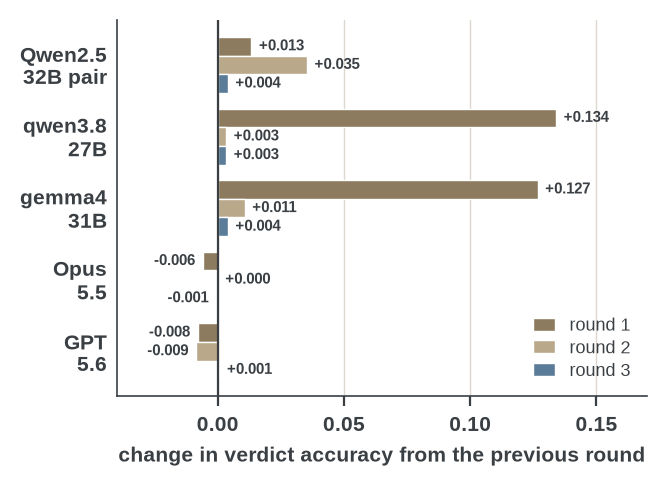
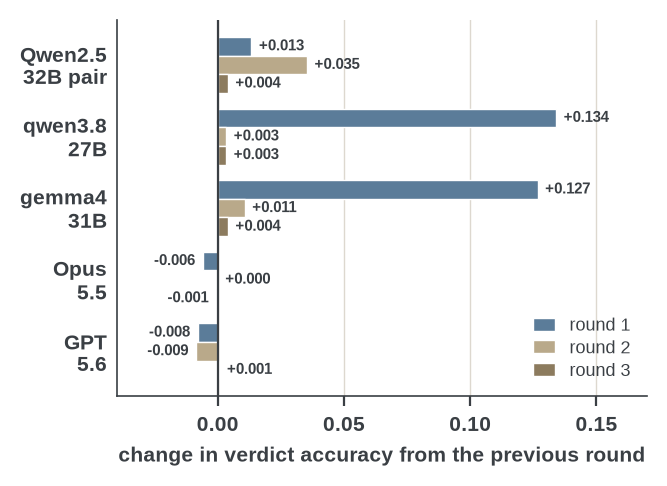
RQ2 covers every model (frontier: no verdict headroom, auditable trail); paraphrase case study justified; repair round 1 in blue; register labels horizontal and smaller

diff --git a/docs/draft/body.tex b/docs/draft/body.tex
@@ -572,9 +572,9 @@ the same five models in every model slot.
 \item \textbf{RQ1.} How well do current language models verify these claims
 end to end, and how much does giving them the corpus codebook change the
 result?
-\item \textbf{RQ2.} Does our staged pipeline improve open models over
-Straight-to-SQL verification, and which stage and which claim families account
-for the errors that remain?
+\item \textbf{RQ2.} What does the staged pipeline add over Straight-to-SQL
+verification for each model, and which stage and which claim families
+account for the errors that remain?
 \item \textbf{RQ3.} Do correct verdicts rest on correct evidence, and how
 often do systems decide claims the data cannot decide, or abstain on claims
 it can?
@@ -748,15 +748,22 @@ $n = k$ statements and the pipeline abstains rather than guess.
 \subsection{RQ2: the staged pipeline and where errors remain}
 \label{sec:families}
 
-\paragraph{For open models the contract is what makes the verdict stand on the
-right evidence.} With the contract and the verifier, every open model gains
-between 0.12 and 0.24 in verdict accuracy over the Straight-to-SQL control,
-and gemma4-31B lands within 0.02 of the frontier at zero API cost. The
-evidence margin is larger and does not shrink with model quality: under the
-contract 86--97\% of right verdicts rest on the exact denominator, against
-40--86\% end to end, and overclaim falls by a factor of four or more. The
-contract does not make the models better at SQL; it removes the
-interpretation step on which they were failing.
+\paragraph{What the contract adds depends on how much the model left on the
+table.} The frontier models have no verdict headroom with the codebook: they
+score the same under \art{} as end to end, and the verifier costs them a
+little, because its checks flag a few correct $n = k$ statements and the
+pipeline abstains rather than guess. What the pipeline gives them is not
+accuracy but an auditable trail: a plan whose fields are scored, a report set
+per arm, and a test the harness ran, which the one-prompt query does not
+produce even when it is right. For the open models the contract is what
+makes the verdict stand on the right evidence: with the contract and the
+verifier every open model gains between 0.12 and 0.24 in verdict accuracy
+over the Straight-to-SQL control, and gemma4-31B lands within 0.02 of the
+frontier at zero API cost. The evidence margin is larger and does not shrink
+with model quality: under the contract 86--97\% of right verdicts rest on the
+exact denominator, against 40--86\% end to end, and overclaim falls by a
+factor of four or more. The contract does not make the models better at SQL;
+it removes the interpretation step on which they were failing.
 
 \iffalse  % family table kept in source; Figure~\ref{fig:groups} (ours by group) and Figure~\ref{fig:families} (evidence vs B) carry it (user 2026-10-20)
 \begin{table*}[t]
@@ -1014,7 +1021,10 @@ single-report claims.}
 
 \paragraph{Paraphrase.} Every test claim also exists in three paraphrase
 registers (research, media, clinical), and the case study reruns the three
-open models on all of them (Figure~\ref{fig:registers}). The research
+open models on all of them (Figure~\ref{fig:registers}); the open models are
+the ones with headroom to lose, and the frontier models, at 0.98--1.00 on the
+original wording, would show little, so they are left to future work with
+free paraphrase. The research
 register costs the most, 0.05 to 0.13 of accuracy, the media and clinical
 registers less (at most 0.07). Rerunning the planner alone on the same
 registers (not shown) loses almost exactly what the full pipeline loses for
@@ -1022,8 +1032,7 @@ the 2026 models, so the cost of paraphrase is paid at planning and passes
 through the contract unchanged; the 2024 pair's pipeline loses less than its
 planner, because its retrieval stage rather than its plan is the bottleneck. gemma4 stays ahead in every register, while
 qwen3.8 and the pair swap places on the research register, where qwen3.8's
-planner loses most. The registers are templated; free paraphrase and the
-frontier models are left to future work.
+planner loses most. The registers are templated.
 
 \iffalse  % registers table kept in source; Figure~\ref{fig:registers} carries it (user 2026-10-20)
 \begin{table}[t]

diff --git a/scripts/paper_figures.py b/scripts/paper_figures.py
@@ -99,7 +99,7 @@ def fig_rounds():
     appendix)."""
     suffix = {0: "dprime", 1: "dprime_verify1", 2: "dprime_verify2", 3: "dprime_verify3"}
     short = {"q25pair": "Qwen2.5\n32B pair", "qwen38_27b": "qwen3.8\n27B", "gemma4_31b": "gemma4\n31B", "opus": "Opus\n5.5", "gpt": "GPT\n5.6"}
-    cols = [DRIFT, DUNE, SLATE]  # coast set: drift, dune, slate
+    cols = [SLATE, DUNE, DRIFT]  # coast set: round 1 slate blue, then dune, drift (user 2026-10-21)
     for name, getter, title in (("rounds", acc, "verdict accuracy"), ("rounds_f1", den_f1, "evidence F1")):
         fig, ax = plt.subplots(figsize=(3.4, 2.5))
         ys = np.arange(len(MODELS))[::-1]; h = 0.26
@@ -273,9 +273,9 @@ def fig_registers():
         xs = x + (j - 1) * w
         ax.bar(xs, y, width=w, color=cols[j], label=label, edgecolor="white", linewidth=0.5, zorder=2)
         for xi, v in zip(xs, y):
-            ax.text(xi, v + 0.006, f"{v:.3f}", ha="center", va="bottom", fontsize=5.4, color=CHARCOAL, rotation=90)
+            ax.text(xi, v + 0.004, f"{v:.2f}", ha="center", va="bottom", fontsize=4.6, color=CHARCOAL)
     ax.set_xticks(x); ax.set_xticklabels(regs)
-    ax.set_ylim(0.6, 1.1); ax.set_yticks([0.6, 0.7, 0.8, 0.9, 1.0])
+    ax.set_ylim(0.6, 1.04); ax.set_yticks([0.6, 0.7, 0.8, 0.9, 1.0])
     ax.set_ylabel("verdict accuracy", fontsize=8)
     boldify(ax, size=7.5)
     ax.legend(frameon=False, ncol=3, loc="upper center", bbox_to_anchor=(0.5, -0.16), fontsize=6.4, handlelength=1.2, columnspacing=1.0)
